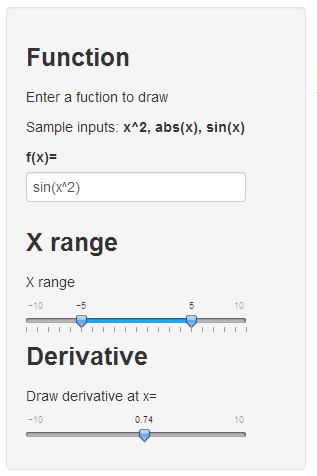
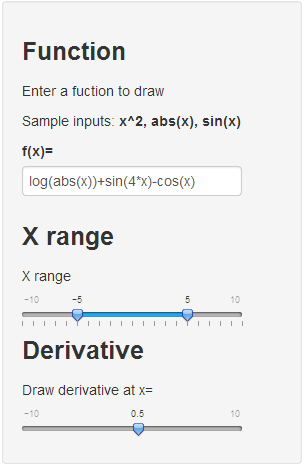
!

diff --git a/grapher/index.html b/grapher/index.html
@@ -46,50 +46,66 @@
     <h2>Function and Derivative Grapher</h2>
   </hgroup>
   <article data-timings="">
-    <ol>
-<li>Edit YAML front matter</li>
-<li>Write using R Markdown</li>
-<li>Use an empty line followed by three dashes to separate slides!</li>
-</ol>
+    <p>This web application allows you to</p>
+
+<ul>
+<li><p>Input a single-variable function (e.g. f(x)= x<sup>2+sin(x)+3)</sup></p></li>
+<li><p>View the graph of the function</p></li>
+<li><p>Select a value for x, and view the derivative line of f(x) for that point</p></li>
+</ul>
+
+<p><font size="4" color="red">Sounds interesting? read on...</font></p>
 
   </article>
   <!-- Presenter Notes -->
 </slide>
 
-<slide class="class" id="id" style="background:;">
+<slide class="" id="slide-2" style="background:;">
   <hgroup>
     <h2>Input Panel</h2>
   </hgroup>
   <article data-timings="">
-    <p>\(x^2\) </p>
+    <p><img src="assets/img/Input.png" align="right"></p>
 
-<div style='text-align: right;'>
-    <img src='assets/img/input.png' />
-</div>
+<p>In this panel, the user can:</p>
+
+<ul>
+<li><p>Input the function he wants to draw.<br>
+This should be a single-variable (x) function.<br>
+The function is evaluated directly by R.</p></li>
+<li><p>Select the X-range of the graph to be drawn</p></li>
+<li><p>Select the value of x for which a derivative-line should be drawn</p></li>
+</ul>
 
   </article>
   <!-- Presenter Notes -->
 </slide>
 
-<slide class="class" id="id" style="background:;">
+<slide class="" id="slide-3" style="background:;">
   <hgroup>
     <h2>Output Panel</h2>
   </hgroup>
   <article data-timings="">
-    <p>Plot of f(x) = sin(x<sup>2)</sup> for x between -5 and 5:<br>
-The derivative of f(x) at (0.5, 0.247) is 0.969<br>
+    <p>Plot of f(x) = log(abs(x))+sin(4*x)-cos(x) for x between -5 and 5:<br>
+The derivative of f(x) at (0.5, -0.661) is 0.815<br>
 <img src="assets/fig/unnamed-chunk-2.png" alt="plot of chunk unnamed-chunk-2"> </p>
+
+<ul>
+<li>Note: this graph is rendered when compiling the presentation (see source)<br>
+<font color="red">This is not a screen capture!</font></li>
+</ul>
 
   </article>
   <!-- Presenter Notes -->
 </slide>
 
-<slide class="class" id="id" style="background:;">
+<slide class="" id="slide-4" style="background:;">
   <hgroup>
     <h2>About Screen</h2>
   </hgroup>
   <article data-timings="">
-    
+    <p><img src="assets/img/About.png" align="right"></p>
+
   </article>
   <!-- Presenter Notes -->
 </slide>

diff --git a/grapher/index.md b/grapher/index.md
@@ -1,5 +1,5 @@
 ---
-title       : Function and derivative grapher 
+title       : Function and derivative grapher
 subtitle    : Developing Data Products - Course Project
 author      : Lior Kogan
 job         : Coursera student
@@ -13,31 +13,49 @@ knit        : slidify::knit2slides
 
 ## Function and Derivative Grapher
 
-1. Edit YAML front matter
-2. Write using R Markdown
-3. Use an empty line followed by three dashes to separate slides!
+This web application allows you to
 
---- .class #id 
+* Input a single-variable function (e.g. f(x)= x^2+sin(x)+3)
 
-## Input Panel
+* View the graph of the function
 
-$x^2$ 
+* Select a value for x, and view the derivative line of f(x) for that point
 
-<div style='text-align: right;'>
-    <img src='assets/img/input.png' />
-</div>
+<font size="4" color="red">Sounds interesting? read on...</font>
 
---- .class #id 
+---
+
+## Input Panel ##
+
+<img src="assets/img/Input.png" align="right">
+
+In this panel, the user can:
+
+
+* Input the function he wants to draw.   
+  This should be a single-variable (x) function.   
+  The function is evaluated directly by R.
+  
+* Select the X-range of the graph to be drawn
+
+
+* Select the value of x for which a derivative-line should be drawn
+
+---
 
 ## Output Panel
 
 
 
-Plot of f(x) = sin(x^2) for x between -5 and 5:   
-The derivative of f(x) at (0.5, 0.247) is 0.969   
+Plot of f(x) = log(abs(x))+sin(4*x)-cos(x) for x between -5 and 5:   
+The derivative of f(x) at (0.5, -0.661) is 0.815   
 ![plot of chunk unnamed-chunk-2](assets/fig/unnamed-chunk-2.png) 
 
---- .class #id 
+ * Note: this graph is rendered when compiling the presentation (see source)   
+   <font color="red">This is not a screen capture!</font>
+
+---
 
 ## About Screen
 
+<img src="assets/img/About.png" align="right">
